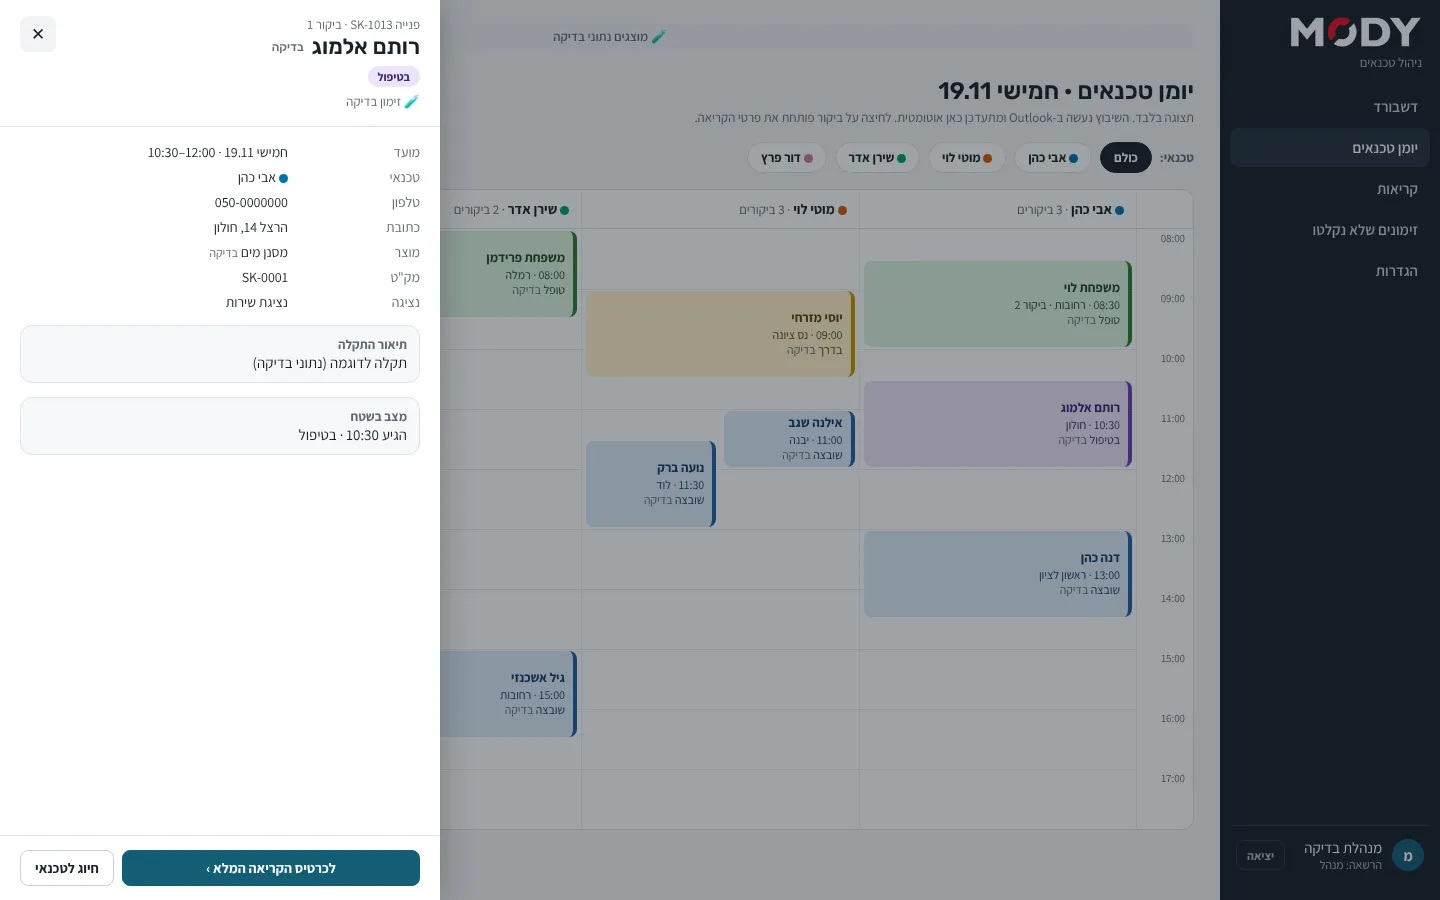
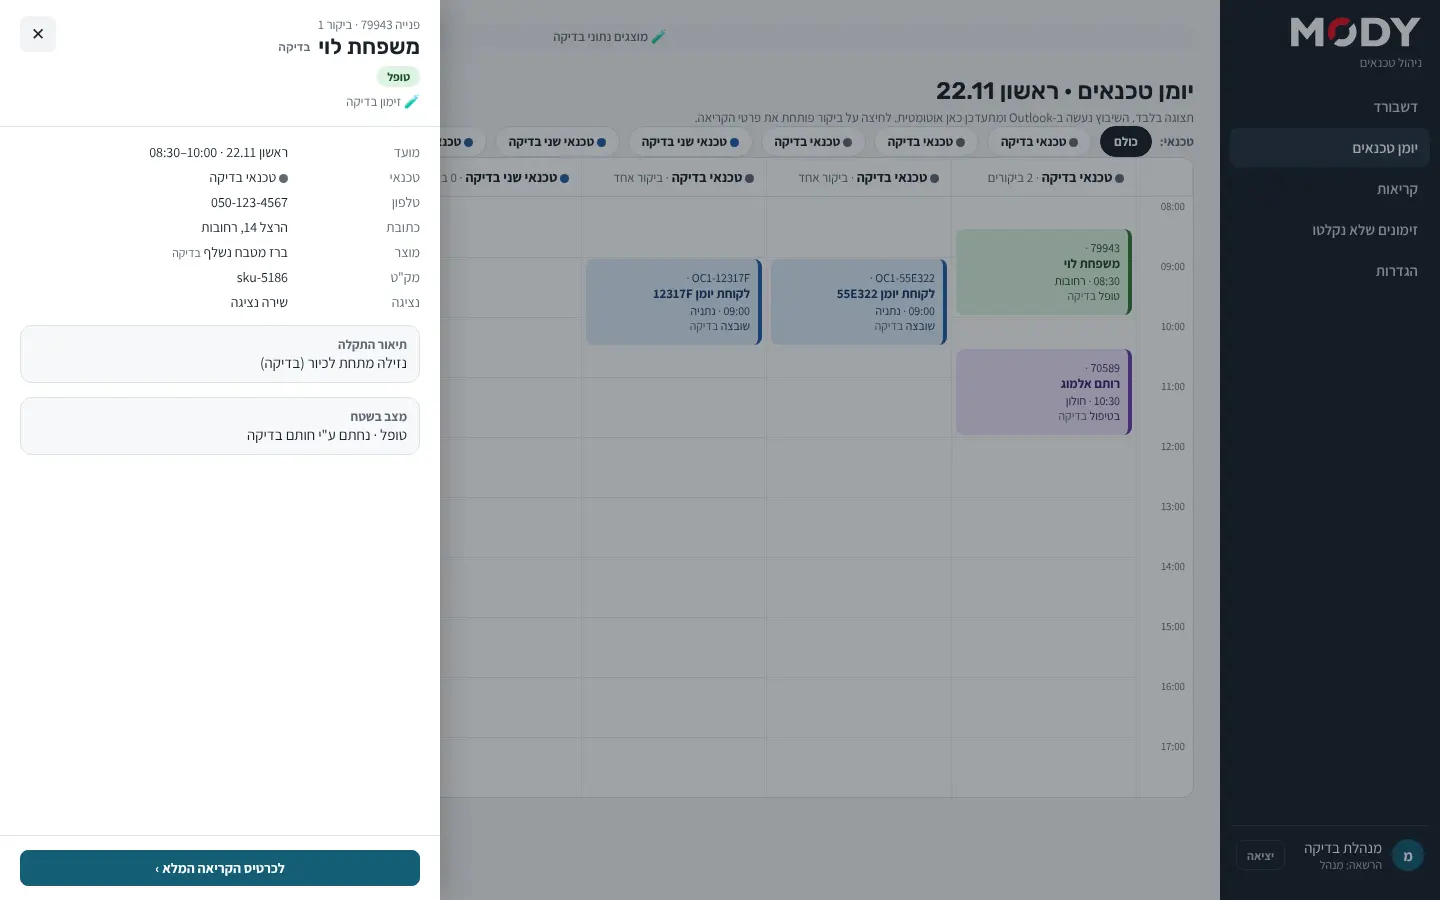
Office calendar: review screenshots at 390/1440 on real local data, README with changes from the skeleton
Claude-Session: https://claude.ai/code/session_011xmGFSbJMisDv2dL1UQpMV

diff --git a/tests/auth/office-tech-calendar-screenshots.spec.ts b/tests/auth/office-tech-calendar-screenshots.spec.ts
@@ -1,0 +1,96 @@
+import { execFileSync } from "node:child_process";
+import { randomInt } from "node:crypto";
+import { mkdirSync, rmSync } from "node:fs";
+import path from "node:path";
+import { expect, test, type Page } from "@playwright/test";
+import { addDays, weekStartOf } from "@/features/calendar/data/dates";
+import { jerusalemToday } from "@/features/visits/data/today";
+import { calendarRangeOf } from "@/lib/data/office-calendar";
+import { seeded, submitSignIn } from "./helpers";
+import { closeVisitAsPostgres, startVisitAsPostgres } from "./tech-calendar-fixtures";
+import { attendeeOf, ingestVisit, signedInClient, type FictionalVisit } from "./tech-fixtures";
+
+// On demand only (SCREENSHOTS=1): the review images of the real "יומן טכנאים" (D94) at 390 and
+// 1440 px (D72), from a local production build signed in as the Manager to the LOCAL stack
+// (tests/auth/run-local.mjs). Every record is fictional and test-marked (D47): the visits are made
+// through the invitation simulator's ingestion service under the Manager's session.
+//   SCREENSHOTS=1 node tests/auth/run-local.mjs tests/auth/office-tech-calendar-screenshots.spec.ts
+// WebP files land in SHOTS_DIR (default docs/review/office-tech-calendar).
+const OUT = path.resolve(process.env.SHOTS_DIR || "docs/review/office-tech-calendar");
+const SIZES = [
+  { width: 390, height: 844 },
+  { width: 1440, height: 900 },
+] as const;
+
+test.skip(!process.env.SCREENSHOTS, "screenshots are taken on demand only");
+
+const today = jerusalemToday();
+const weekStart = weekStartOf(today);
+const range = calendarRangeOf(today);
+const v = (customer: string, city: string, street: string, product: string): FictionalVisit => ({
+  req: String(randomInt(70000, 79999)),
+  customerNo: String(randomInt(100000, 999999)),
+  customer,
+  phone: "050-123-4567",
+  city,
+  street,
+  product,
+  sku: `sku-${randomInt(1000, 9999)}`,
+  desc: "נזילה מתחת לכיור (בדיקה)",
+});
+
+async function ready(page: Page) {
+  await page.evaluate(async () => {
+    const faces = ["500 16px Rubik", "600 16px Rubik", "700 16px Rubik", "400 16px Assistant", "600 16px Assistant", "700 16px Assistant"];
+    await Promise.all(faces.map((face) => document.fonts.load(face, "אבג")));
+    await document.fonts.ready;
+  });
+  await page.waitForLoadState("networkidle");
+}
+
+async function shoot(page: Page, url: string, name: string, sizes: readonly { width: number; height: number }[] = SIZES) {
+  for (const size of sizes) {
+    await page.setViewportSize(size);
+    await page.goto(url);
+    await ready(page);
+    const png = path.join(OUT, `${size.width}-${name}.png`);
+    await page.screenshot({ path: png, fullPage: size.width === 390 });
+    execFileSync("convert", [png, "-quality", "80", png.replace(/\.png$/, ".webp")]);
+    rmSync(png);
+  }
+}
+
+test("screenshots: week, day, drawer, empty, range edge", async ({ page }) => {
+  test.setTimeout(240_000);
+  mkdirSync(OUT, { recursive: true });
+  const { mgr } = seeded();
+  const office = await signedInClient(mgr.email, mgr.password);
+  const a = await attendeeOf(office, process.env.AUTH_E2E_TECH_ROW ?? "");
+  const b = await attendeeOf(office, process.env.AUTH_E2E_TECH2_ROW ?? "");
+  const day = (offset: number) => addDays(weekStart, offset);
+  const plan: [string, string, string, string, FictionalVisit][] = [
+    [a, today, "08:30", "10:00", v("משפחת לוי", "רחובות", "הרצל 14", "ברז מטבח נשלף")],
+    [a, today, "10:30", "12:00", v("רותם אלמוג", "חולון", "סוקולוב 3", "מסנן מים")],
+    [b, today, "09:00", "10:30", v("יוסי מזרחי", "נס ציונה", "ויצמן 8", "מיכל הדחה סמוי")],
+    [b, today, "11:00", "12:30", v("אילנה שגב", "יבנה", "הדקל 2", "סוללת אמבטיה")],
+    [a, day(1), "09:00", "10:30", v("טל וינטר", "אשדוד", "הנמל 5", "ברז מטבח נשלף")],
+    [b, day(2), "13:00", "14:00", v("ענת רוזן", "חולון", "המלאכה 9", "מסנן מים")],
+    [a, day(4), "08:00", "09:30", v("משפחת חדד", "בת ים", "בלפור 21", "סוללת אמבטיה")],
+    [b, day(5), "10:00", "11:00", v("נועה ברק", "לוד", "הרצל 40", "מסנן מים")],
+  ];
+  const ids: string[] = [];
+  for (const [who, date, from, to, visit] of plan) ids.push(await ingestVisit(office, who, date, from, to, visit));
+  closeVisitAsPostgres(ids[0]!, "הוחלף ראש ברז בדיקה");
+  startVisitAsPostgres(ids[1]!, "in_progress");
+  startVisitAsPostgres(ids[2]!, "en_route");
+  const first = plan[0]![4];
+
+  await submitSignIn(page, mgr.email, mgr.password);
+  await expect(page).toHaveURL(/\/office$/);
+  // The default of each device (D94 (b)): the week at 1440, the day at 390.
+  await shoot(page, "/office/calendar", "default");
+  await shoot(page, `/office/calendar?view=week&date=${today}`, "week", [SIZES[0]]);
+  await shoot(page, `/office/calendar?view=day&date=${today}`, "day", [SIZES[1]]);
+  await shoot(page, `/office/calendar?view=day&date=${today}&req=${first.req}&n=1`, "drawer");
+  await shoot(page, `/office/calendar?view=week&date=${range.max}`, "range-edge");
+});

diff --git a/docs/review/office-tech-calendar/README.md b/docs/review/office-tech-calendar/README.md
@@ -1,0 +1,25 @@
+# Office technician calendar ("יומן טכנאים") on real data (#57)
+
+Signed in as the Manager on the local Supabase stack. Every record is fictional and test-marked ("נתוני בדיקה", D47, D91). Made by `tests/auth/office-tech-calendar-screenshots.spec.ts`.
+
+| File | What it shows |
+| --- | --- |
+| `1440-default.webp` | `/office/calendar` with no view chosen: the week, Sunday to Saturday (D94 (a), (b)) |
+| `390-default.webp` | The same address on a phone: today's day, as cards (D94 (b)) |
+| `1440-day.webp` | Day view: one column per technician |
+| `390-week.webp` | Week view on a phone: one section per day |
+| `1440-drawer.webp`, `390-drawer.webp` | A visit's drawer, with the link to the call card |
+| `1440-range-edge.webp`, `390-range-edge.webp` | The last week of the range: days after the range are greyed, "next" is disabled (D94 (d)) |
+
+The local stack is shared, so the technician list also holds technicians made by earlier test runs (two "טכנאי בדיקה" and two "טכנאי שני בדיקה").
+
+## Changes from the approved skeleton (D81)
+
+1. **Week is Sunday to Saturday (7 columns), not Sunday to Thursday.** Reason: owner answer D94 (a), same as the technician calendar (D89).
+2. **Default view by device: week on desktop, day on phone**, when the address names no view; the chosen view stays in the address. Reason: D94 (b).
+3. **Day arrows move one calendar day** (Friday and Saturday included) instead of skipping to the next work day; their names are "יום קודם" / "יום הבא". Reason: D94 (a) makes Friday and Saturday days of the calendar.
+4. **Range: one month back, three months forward.** A date outside is moved to the nearest edge; the arrow at the edge is dimmed and disabled; days of an edge week outside the range are greyed ("מחוץ לטווח היומן") and not read. Reason: D94 (d).
+5. **"אין הרשאה" state** for a role without the permission key `cal`; nothing is read. Reason: D94 (c) (visibility by `cal`, checked on the server).
+6. **The drawer's "לכרטיס הקריאה המלא" shows only for roles with `calls`**, and "חיוג לטכנאי" only when the technician's work phone is readable (Manager, Creator). Reason: no link to a screen the role cannot open; RLS decides the phone.
+7. **Technicians shown**: every technician who accepts invitations, plus any with a visit that week, by name (the skeleton had four fixed ones). Reason: real data.
+8. **Test-data banner** only when a shown record is test-marked; test records are hidden on Production after go-live. Reason: D91.
